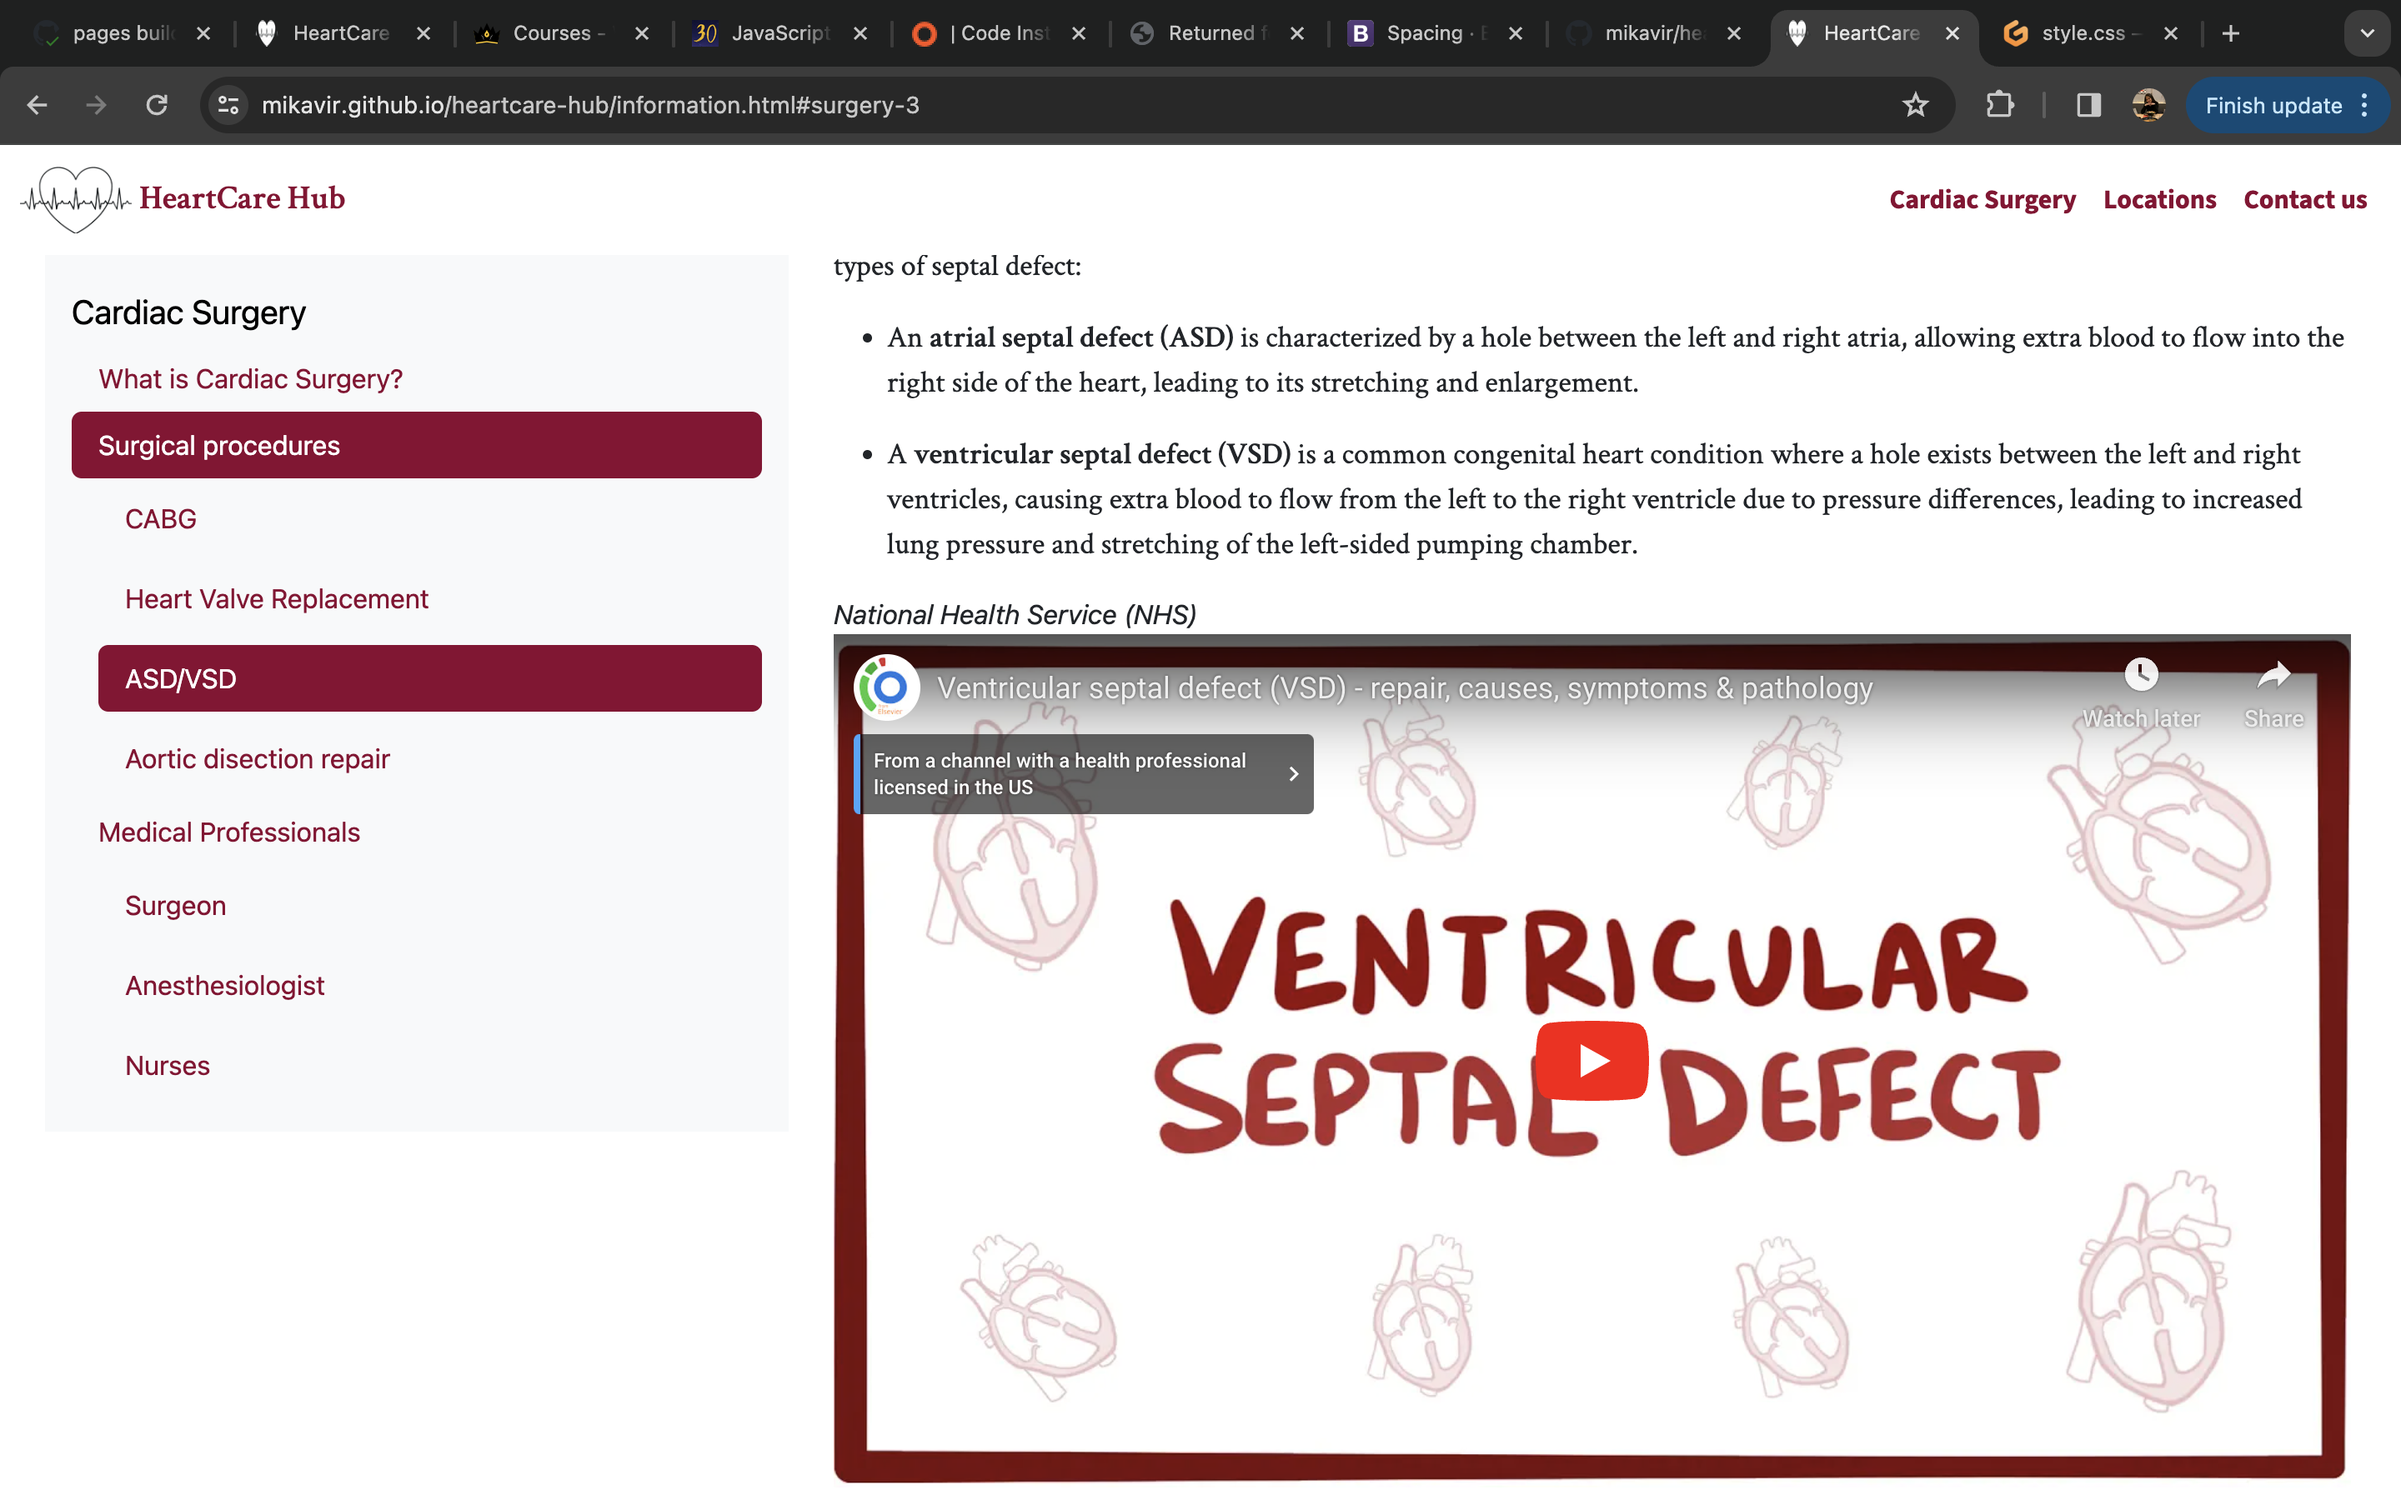
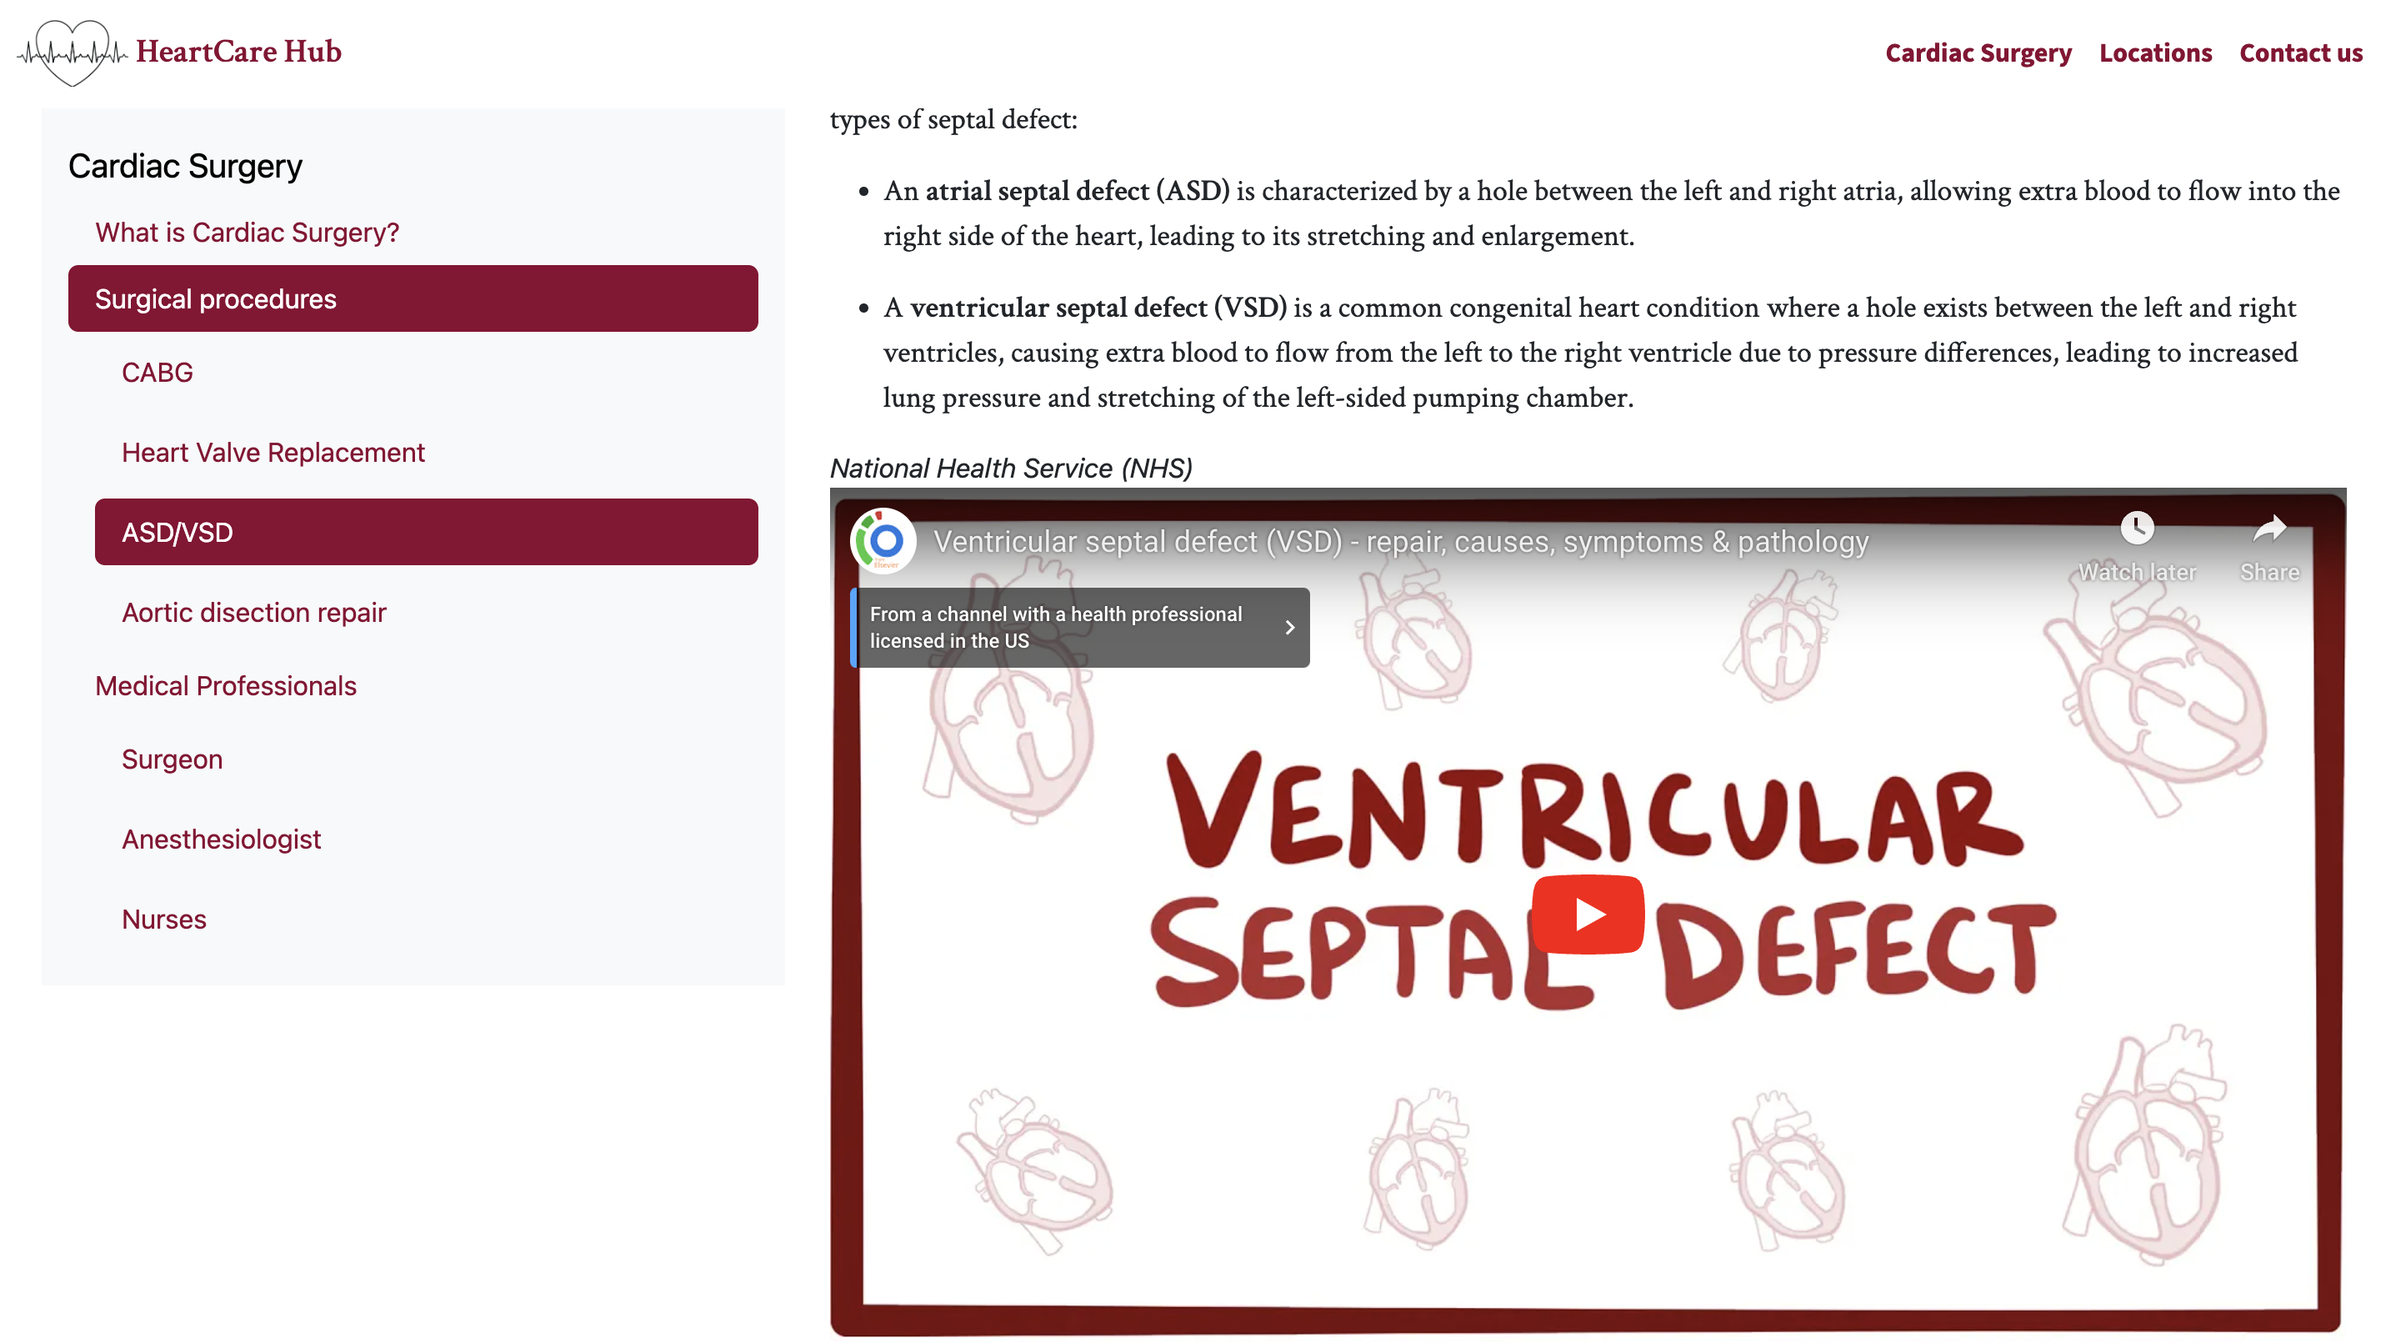
Fix faulty screenshot

diff --git a/TESTING.md b/TESTING.md
@@ -97,7 +97,7 @@ I have succesfuly tested the form in the contact.form by submitting it via post 
 
 - When information nav is clicked, the heading in the information page is obscured. 
 
-    ![screenshot](documentation/bug-02.png)
+    ![screenshot](documentation/bug02.png)
 
     -To fix this, I have added scroll margin top to the class that targets that heading elememts ie. ".data-comtainer h4, h5".
 
